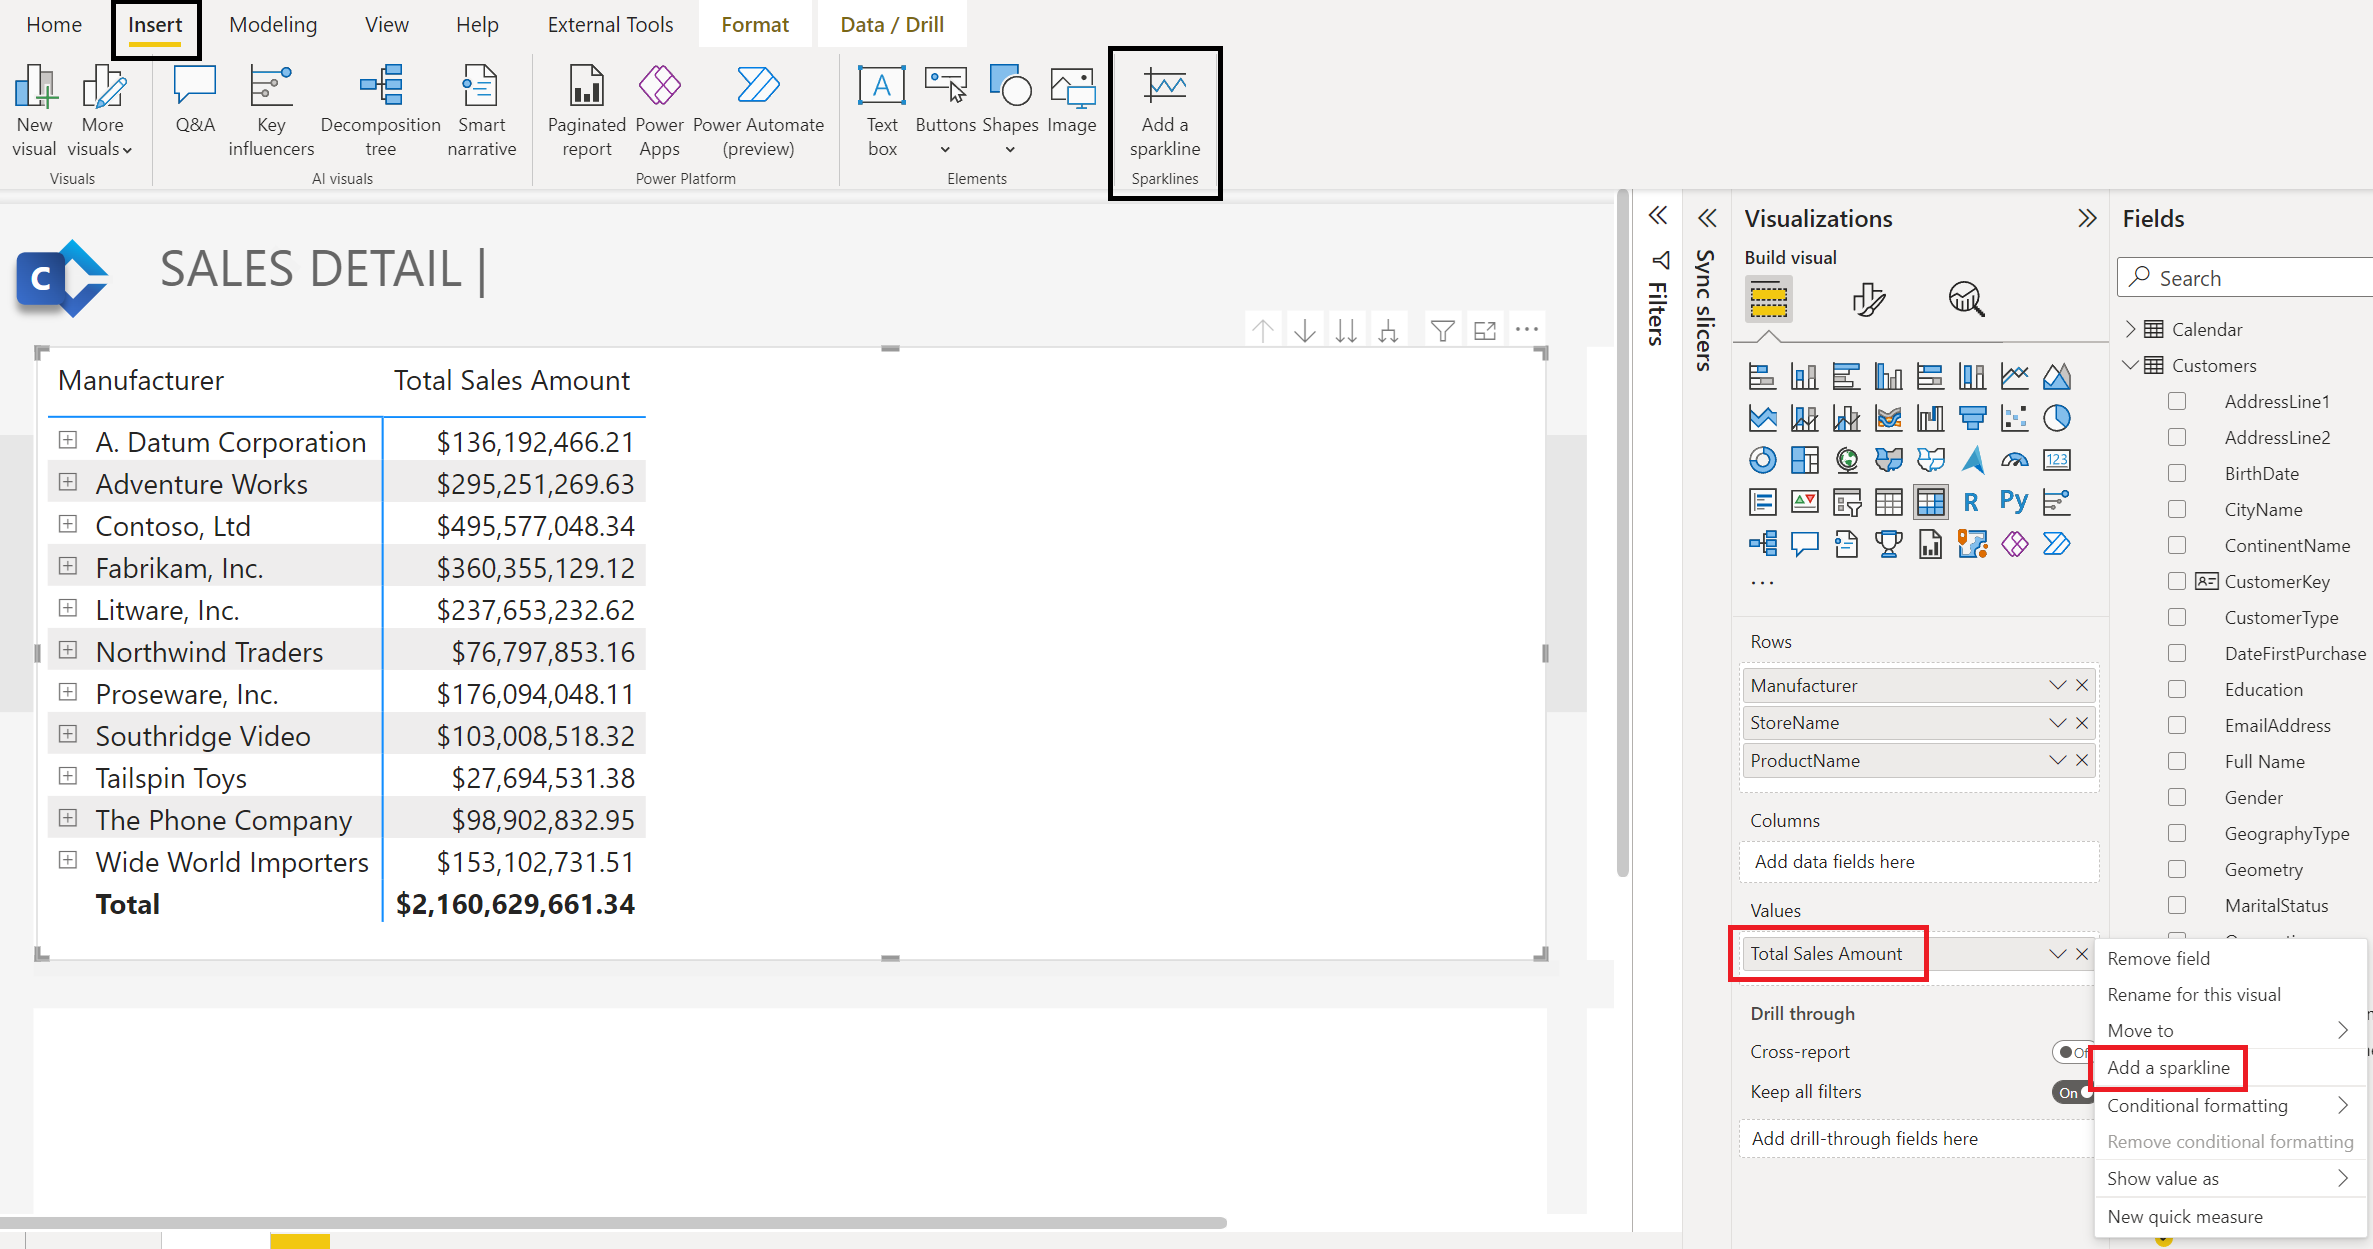
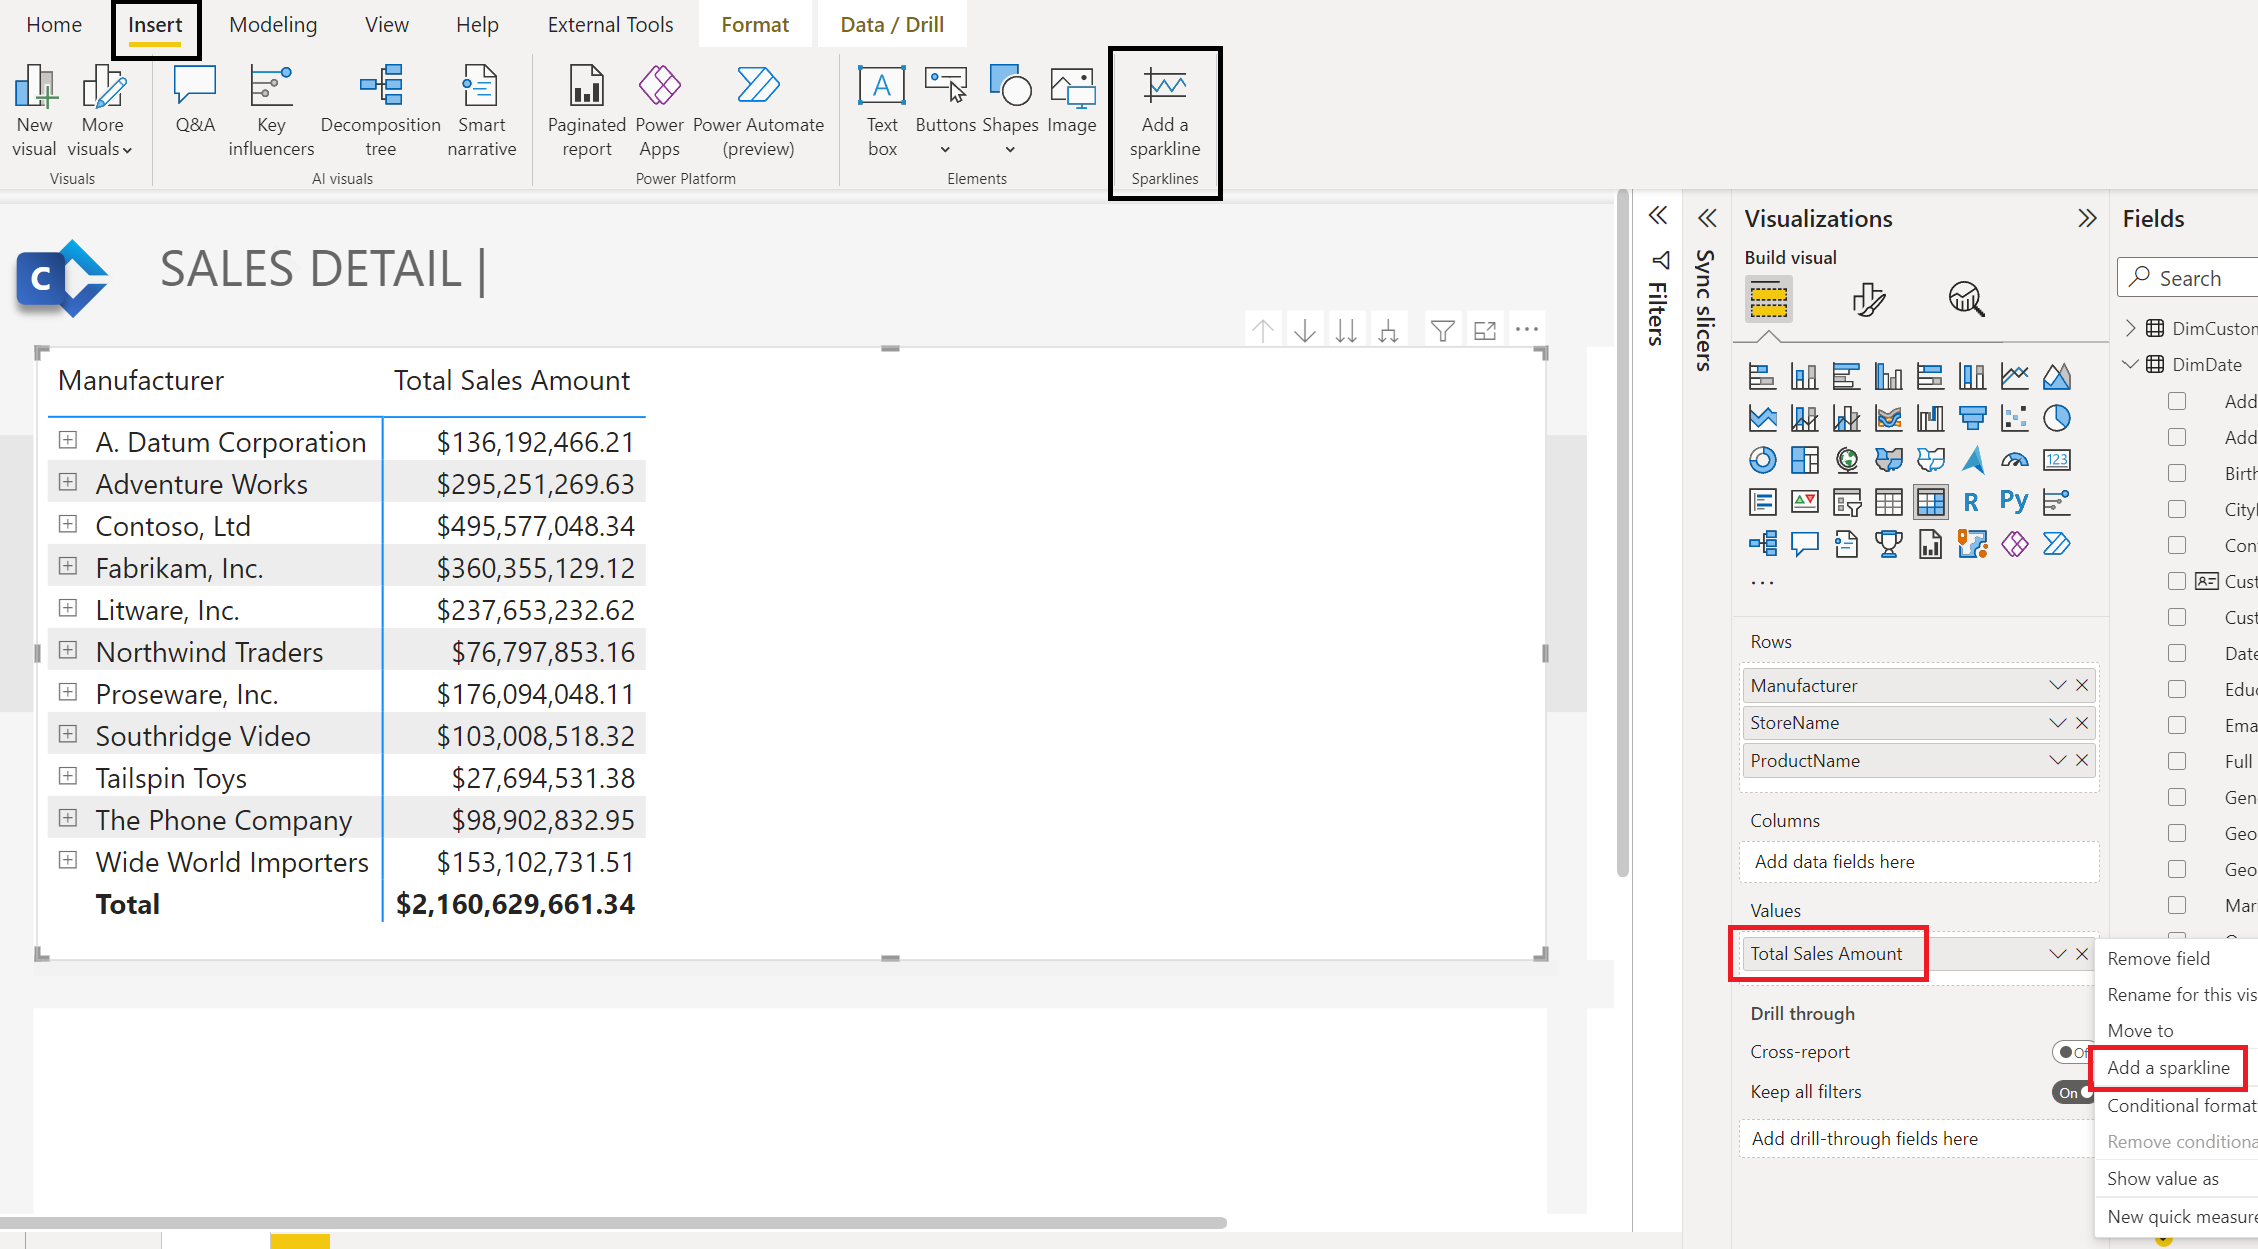
Final steps for data viz section

diff --git a/Day After Dashboard in a Day/DataVisualization.md b/Day After Dashboard in a Day/DataVisualization.md
@@ -503,10 +503,10 @@ Learn more about [sparklines](https://learn.microsoft.com/power-bi/create-report
 1. From the **Visualizations** pane add the **Matrix** visual to the top right rectangle in the **Detail** page and complete the following configurations.
     | Field | Table | Field/Measure |
     | :-- | :-- | :-- |
-    | Rows | Products | Manufacturer |
-    | Rows | Stores | StoreName |
-    | Rows | Products | ProductName |
-    | Values | Online Sales | Total Sales Amount |
+    | Rows | DimProduct | Manufacturer |
+    | Rows | DimStore | StoreName |
+    | Rows | DimProduct | ProductName |
+    | Values | FactOnlineSales | Total Sales Amount |
 
     ![Add matrix visual](./Media/AddMatrixVisual.png)
 
@@ -515,7 +515,7 @@ Learn more about [sparklines](https://learn.microsoft.com/power-bi/create-report
 
     ![Add sparkline](./Media/AddSparkline.png)
 
-1. Within the **Add a sparkline** dialog window, select the drop down under the **X-axis** and select the **DateKey** filed from the **Calendar** table. Once complete select **Create** to continue.
+1. Within the **Add a sparkline** dialog window, select the drop down under the **X-axis** and select the **DateKey** filed from the **DimDate** table. Once complete select **Create** to continue.
 
     ![Sparkline axis](./Media/SparklineAxis.png)
 
@@ -585,7 +585,7 @@ Learn more about [sparklines](https://learn.microsoft.com/power-bi/create-report
 ### Anomaly detection
 
 1. From the **Visualizations** pane we'll now add a **Line** visual to the bottom left rectangle on our canvas and insert the following fields and measures to the values below:
-    1. X-axis: **Calendar** table, **DateKey** field
+    1. X-axis: **DimDate** table, **DateKey** field
     1. Y-axis: **Total Sales Amount** measure
 
     ![Total sales amount line chart](./Media/TotalSalesAmountLine.png)
@@ -602,7 +602,7 @@ Learn more about [sparklines](https://learn.microsoft.com/power-bi/create-report
     ![Find anomalies](./Media/FindAnomalies.png)
 
 1. From our line chart, anomalies have now been detected, if we were to select any of the anomaly markers a new **Anomalies** pane is then available, this same experience will be available to our end users as they view our reports within the Power BI service (cloud).
-    
+
     The anomalies pane includes information information like why the anomaly was detected and possible explanations including their overall strength score as displayed in the black highlighted areas.
 
     ![Anomalies pane](./Media/AnomaliesPane.png)
@@ -641,7 +641,7 @@ Learn more about [Smart narrative](https://learn.microsoft.com/power-bi/visuals/
 
     ![Add QA visual](./Media/AddQAVisual.png)
 
-Learn more about the [Q&A](https://learn.microsoft.com/power-bi/visuals/power-bi-visualization-q-and-a) visual
+Learn more about the [Q&A](https://learn.microsoft.com/power-bi/visuals/power-bi-visualization-q-and-a) visual.
 
 # Lab check
 
